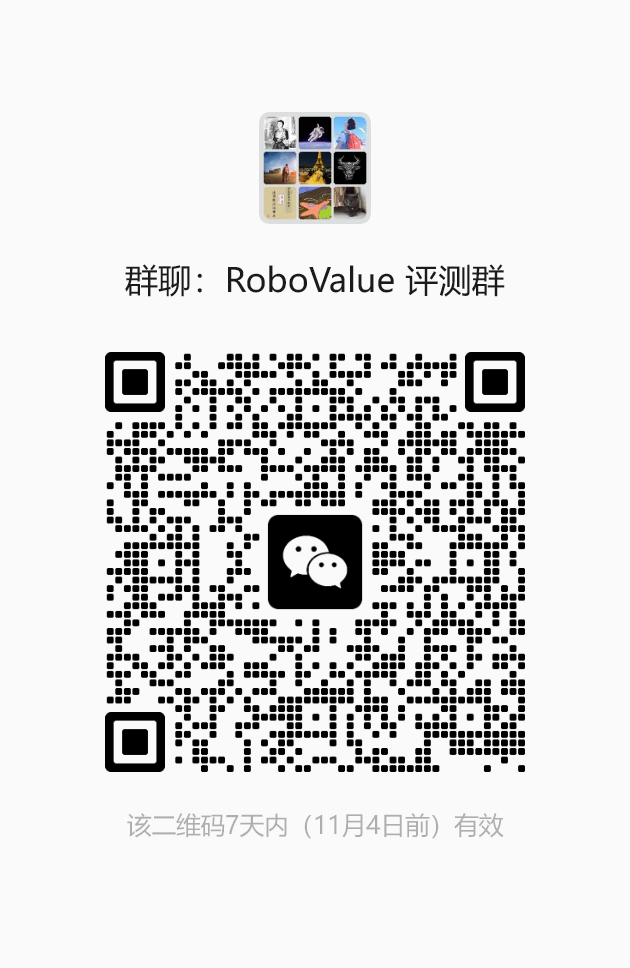
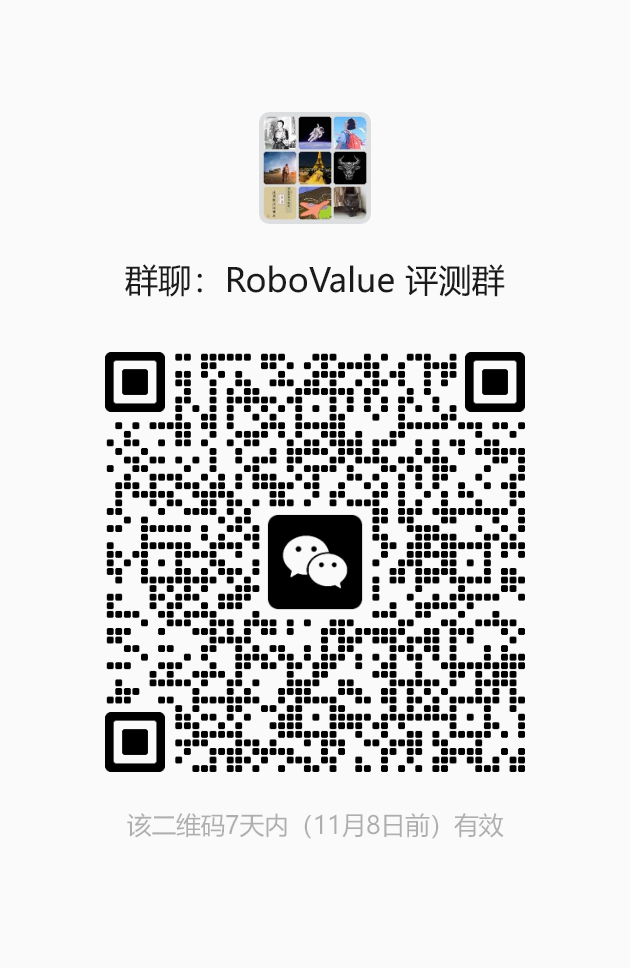
Update WeChat group QR codes for November 1

Changed region(s): [[0.1508, 0.3409, 0.8444, 0.8058], [0.573, 0.8368, 0.6032, 0.8678]]

diff --git a/src/eval.jsx b/src/eval.jsx
@@ -50,14 +50,14 @@ function EvaluationCommunity() {
       <h3 id="eval-wechat-heading">WeChat Groups</h3>
       <div className="eval-wechat-groups">
         <section aria-labelledby="eval-wechat-evaluation-heading">
-          <a className="eval-qr" href="/assets/evaluation-wechat.png?v=20261028" target="_blank" rel="noopener noreferrer" aria-label="Open the evaluation WeChat QR code at full size">
-            <img src="/assets/evaluation-wechat.png?v=20261028" width="630" height="968" alt="RoboValue evaluation WeChat group QR code, valid before November 4" />
+          <a className="eval-qr" href="/assets/evaluation-wechat.png?v=20261101" target="_blank" rel="noopener noreferrer" aria-label="Open the evaluation WeChat QR code at full size">
+            <img src="/assets/evaluation-wechat.png?v=20261101" width="630" height="968" alt="RoboValue evaluation WeChat group QR code, valid before November 8" />
           </a>
           <h4 id="eval-wechat-evaluation-heading">Evaluation only</h4>
         </section>
         <section aria-labelledby="eval-wechat-discussion-heading">
-          <a className="eval-qr" href="/assets/community-wechat.png?v=20261028" target="_blank" rel="noopener noreferrer" aria-label="Open the discussion WeChat QR code at full size">
-            <img src="/assets/community-wechat.png?v=20261028" width="630" height="968" alt="RoboValue discussion WeChat group QR code" />
+          <a className="eval-qr" href="/assets/community-wechat.png?v=20261101" target="_blank" rel="noopener noreferrer" aria-label="Open the discussion WeChat QR code at full size">
+            <img src="/assets/community-wechat.png?v=20261101" width="630" height="968" alt="RoboValue discussion WeChat group QR code" />
           </a>
           <h4 id="eval-wechat-discussion-heading">Discussion</h4>
         </section>
@@ -95,8 +95,8 @@ function EvaluationSuccess({ successRef }) {
       </div>
       <div className="eval-success-channels">
         <section className="eval-success-channel" aria-labelledby="eval-success-wechat-heading">
-          <a className="eval-qr" href="/assets/evaluation-wechat.png?v=20261028" target="_blank" rel="noopener noreferrer" aria-label="Open the evaluation WeChat QR code at full size">
-            <img src="/assets/evaluation-wechat.png?v=20261028" width="630" height="968" alt="RoboValue evaluation WeChat group QR code, valid before November 4" />
+          <a className="eval-qr" href="/assets/evaluation-wechat.png?v=20261101" target="_blank" rel="noopener noreferrer" aria-label="Open the evaluation WeChat QR code at full size">
+            <img src="/assets/evaluation-wechat.png?v=20261101" width="630" height="968" alt="RoboValue evaluation WeChat group QR code, valid before November 8" />
           </a>
           <h4 id="eval-success-wechat-heading">WeChat</h4>
           <p>Scan to join</p>

diff --git a/src/eval-failure.jsx b/src/eval-failure.jsx
@@ -54,8 +54,8 @@ export function EvaluationFailure({ headingRef, details, onBack }) {
         <section className="eval-failure-channel" aria-labelledby="eval-failure-wechat-heading">
           <h3 id="eval-failure-wechat-heading">WeChat</h3>
           <p className="eval-failure-channel-note">Evaluation group</p>
-          <a className="eval-qr" href="/assets/evaluation-wechat.png?v=20261028" target="_blank" rel="noopener noreferrer" aria-label="Open the evaluation WeChat QR code at full size">
-            <img src="/assets/evaluation-wechat.png?v=20261028" width="630" height="968" alt="RoboValue evaluation WeChat group QR code, valid before November 4" />
+          <a className="eval-qr" href="/assets/evaluation-wechat.png?v=20261101" target="_blank" rel="noopener noreferrer" aria-label="Open the evaluation WeChat QR code at full size">
+            <img src="/assets/evaluation-wechat.png?v=20261101" width="630" height="968" alt="RoboValue evaluation WeChat group QR code, valid before November 8" />
           </a>
           <p className="eval-failure-scan">Scan with WeChat</p>
         </section>

diff --git a/src/community.jsx b/src/community.jsx
@@ -17,8 +17,8 @@ export function CommunityPage() {
         <p>Scan the QR code with WeChat to join the RoboValue discussion group.</p>
       </div>
       <figure className="community-qr-card">
-        <a href="/assets/community-wechat.png?v=20261028" target="_blank" rel="noopener noreferrer" aria-label="Open the RoboValue WeChat QR code at full size">
-          <img src="/assets/community-wechat.png?v=20261028" alt="QR code for the RoboValue WeChat discussion group" width="630" height="968" />
+        <a href="/assets/community-wechat.png?v=20261101" target="_blank" rel="noopener noreferrer" aria-label="Open the RoboValue WeChat QR code at full size">
+          <img src="/assets/community-wechat.png?v=20261101" alt="QR code for the RoboValue WeChat discussion group" width="630" height="968" />
         </a>
         <figcaption>RoboValue WeChat Group</figcaption>
       </figure>
